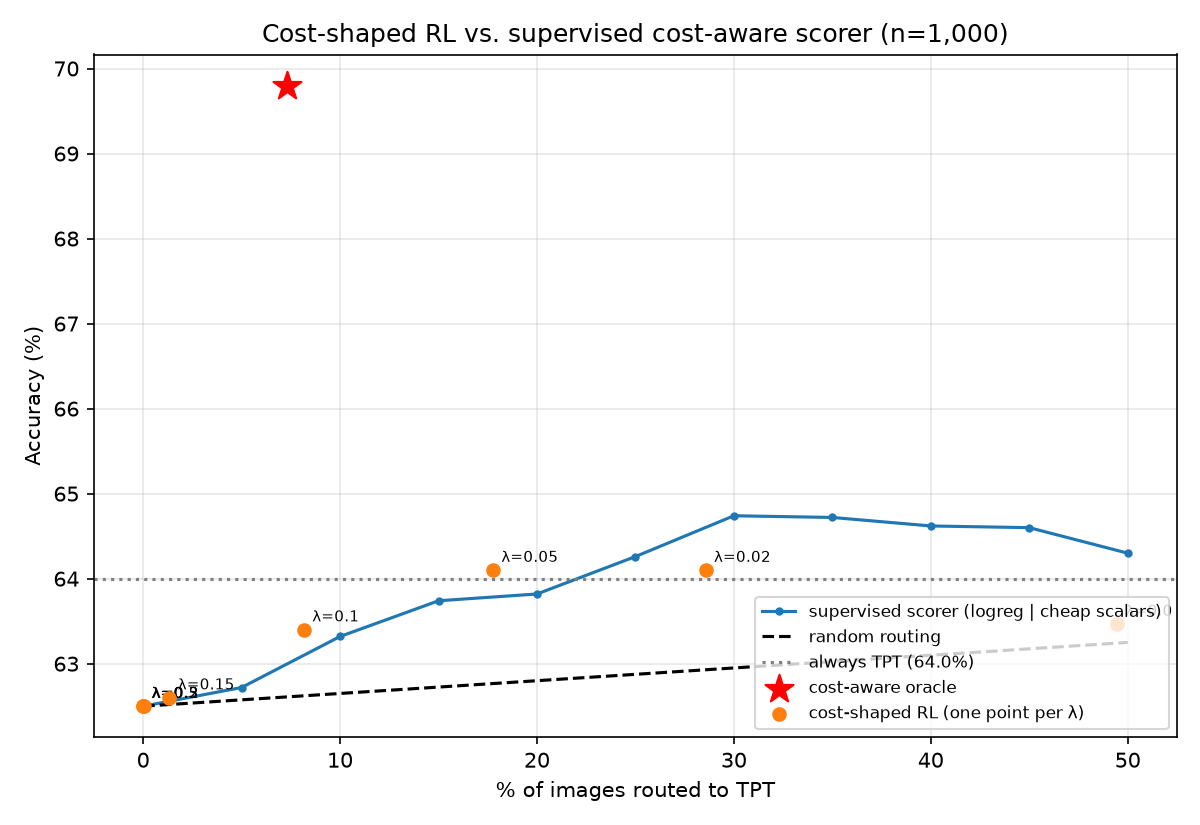
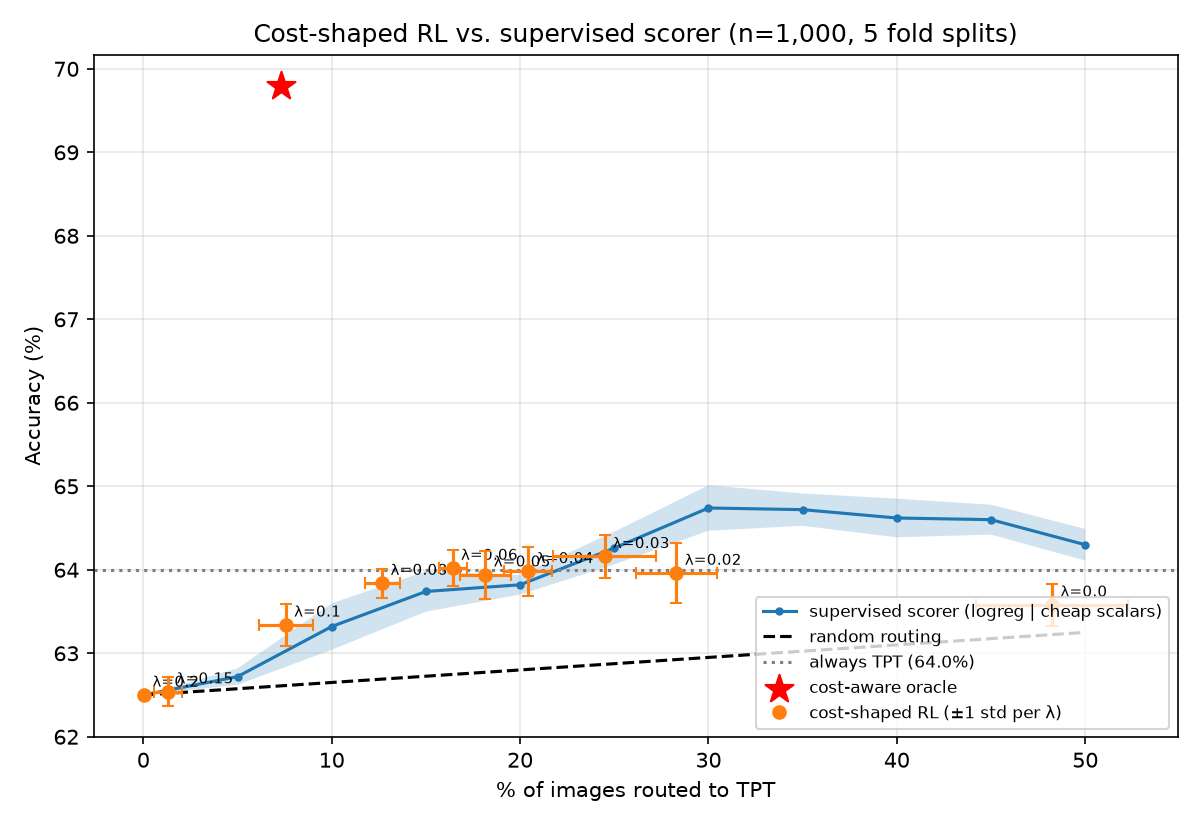
add simple-threshold baselines: single uncertainty thresholds match the learned gate; cache-disagreement rule matches TPT at 15% TPT; update README

diff --git a/src/train_rl_gate.py b/src/train_rl_gate.py
@@ -407,7 +407,7 @@ def report_permutation_result(score, perm_scores, p_value, y):
 # points, compared directly against the supervised cost-aware scorer.
 
 RL_COST_PLOT = Path("results/rl_cost_curve.png")
-LAMBDAS = [0.0, 0.02, 0.05, 0.1, 0.15, 0.2, 0.3, 0.5]
+LAMBDAS = [0.0, 0.02, 0.03, 0.04, 0.05, 0.06, 0.08, 0.1, 0.15, 0.2]
 
 
 def train_reinforce_cost(X_train, r_tpt, r_tda, lam, epochs=300, lr=0.01, seed=0):
@@ -432,7 +432,7 @@ def train_reinforce_cost(X_train, r_tpt, r_tda, lam, epochs=300, lr=0.01, seed=0
     return model
 
 
-def cost_shaped_rl_sweep(n_repeats=3):
+def cost_shaped_rl_sweep(n_repeats=5):
     with open(WIN_LABELS) as f:
         rows = json.load(f)
 
@@ -442,16 +442,27 @@ def cost_shaped_rl_sweep(n_repeats=3):
     tpt_s = np.array([r["tpt_seconds"] for r in rows])
     tda_s = np.array([r["tda_seconds"] for r in rows])
     X = np.array([[r[f] for f in CHEAP_SCALARS] for r in rows])
-
     tpt_acc, tda_acc = tpt_c.mean(), tda_c.mean()
-    print("\n=== Cost-shaped RL gate (cheap scalars, 5-fold, "
-          f"averaged over {n_repeats} fold splits) ===")
+
+    # Scorer scores per repeat. StratifiedKFold with the same random_state on the
+    # same labels gives identical folds, so RL and scorer see the same splits.
+    scorer_scores = [oof_needs_tpt_scores(X, None, y, "logreg", seed=rep)
+                     for rep in range(n_repeats)]
+
+    def acc_top_k(scores, k):
+        route = np.zeros(len(scores), dtype=bool)
+        route[np.argsort(-scores)[:k]] = True
+        return np.where(route, tpt_c, tda_c).mean()
+
+    print("\n=== Cost-shaped RL vs. supervised scorer at the SAME budget "
+          f"(5-fold, {n_repeats} fold splits, paired) ===")
     print(f"Always TDA: acc {tda_acc:.3f} | Always TPT: acc {tpt_acc:.3f}\n")
-    print(f"{'lambda':>7} | {'% to TPT':>8} | {'accuracy':>8} | {'cost (ms)':>9} | {'AUC':>5}")
+    print(f"{'lambda':>6} | {'% to TPT':>13} | {'RL acc':>13} | {'scorer acc':>13} | "
+          f"{'RL - scorer':>14} | {'RL wins':>7} | {'cost ms':>7} | {'AUC':>5}")
 
     rl_points = []
     for lam in LAMBDAS:
-        fracs, accs, costs, aucs = [], [], [], []
+        fracs, rl_accs, sc_accs, costs, aucs = [], [], [], [], []
         for rep in range(n_repeats):
             skf = StratifiedKFold(n_splits=5, shuffle=True, random_state=rep)
             route = np.zeros(len(y), dtype=bool)
@@ -465,39 +476,49 @@ def cost_shaped_rl_sweep(n_repeats=3):
                         model(torch.tensor(sc.transform(X[te]), dtype=torch.float32)), dim=-1
                     ).numpy()
                 p_tpt[te] = probs[:, 0]
-                route[te] = probs[:, 0] > 0.5      # greedy: pick the likelier action
+                route[te] = probs[:, 0] > 0.5
+
+            k = int(route.sum())
             fracs.append(route.mean())
-            accs.append(np.where(route, tpt_c, tda_c).mean())
+            rl_accs.append(np.where(route, tpt_c, tda_c).mean())
+            sc_accs.append(acc_top_k(scorer_scores[rep], k))   # same budget, same split
             costs.append((tda_s + route * tpt_s).mean() * 1000)
             aucs.append(roc_auc_score(y, p_tpt))
-        point = (lam, np.mean(fracs), np.mean(accs), np.mean(costs), np.mean(aucs))
-        rl_points.append(point)
-        print(f"{lam:7.2f} | {point[1]:8.1%} | {point[2]:8.3f} | {point[3]:9.1f} | {point[4]:.3f}")
 
-    # Supervised cost-aware scorer curve for comparison (same features + accounting)
-    scorer_accs = np.mean([
-        route_curve(oof_needs_tpt_scores(X, None, y, "logreg", seed=r),
-                    tpt_c, tda_c, tpt_s, tda_s)[0]
-        for r in range(5)
-    ], axis=0)
+        fracs, rl_accs, sc_accs = map(np.array, (fracs, rl_accs, sc_accs))
+        diffs = rl_accs - sc_accs
+        wins = int(np.sum(diffs > 0))
+        rl_points.append((lam, fracs.mean(), fracs.std(), rl_accs.mean(), rl_accs.std()))
+        print(f"{lam:6.2f} | {fracs.mean():6.1%} ±{fracs.std():5.1%} | "
+              f"{rl_accs.mean():.3f} ±{rl_accs.std():.3f} | "
+              f"{sc_accs.mean():.3f} ±{sc_accs.std():.3f} | "
+              f"{diffs.mean():+.3f} ±{diffs.std():.3f} | {wins:>3}/{n_repeats} | "
+              f"{np.mean(costs):7.1f} | {np.mean(aucs):.3f}")
+
+    # Scorer curve with spread across fold splits
+    curves = np.array([route_curve(s, tpt_c, tda_c, tpt_s, tda_s)[0] for s in scorer_scores])
+    sc_mean, sc_std = curves.mean(0), curves.std(0)
 
     fig, ax = plt.subplots(figsize=(8, 5.5))
-    ax.plot(BUDGETS * 100, scorer_accs * 100, marker="o", ms=3,
+    x = BUDGETS * 100
+    ax.plot(x, sc_mean * 100, marker="o", ms=3,
             label="supervised scorer (logreg | cheap scalars)")
-    ax.plot(BUDGETS * 100, ((1 - BUDGETS) * tda_acc + BUDGETS * tpt_acc) * 100,
-            "k--", label="random routing")
+    ax.fill_between(x, (sc_mean - sc_std) * 100, (sc_mean + sc_std) * 100, alpha=0.2)
+    ax.plot(x, ((1 - BUDGETS) * tda_acc + BUDGETS * tpt_acc) * 100, "k--",
+            label="random routing")
     ax.axhline(tpt_acc * 100, color="gray", ls=":", label=f"always TPT ({tpt_acc:.1%})")
     ax.scatter([y.mean() * 100], [np.maximum(tpt_c, tda_c).mean() * 100], marker="*",
                s=200, color="red", zorder=5, label="cost-aware oracle")
-    for lam, frac, acc, _, _ in rl_points:
-        if frac <= 0.5:
-            ax.scatter(frac * 100, acc * 100, color="tab:orange", zorder=4)
-            ax.annotate(f"λ={lam}", (frac * 100, acc * 100), fontsize=7,
+    for lam, f_m, f_s, a_m, a_s in rl_points:
+        if f_m <= 0.5:
+            ax.errorbar(f_m * 100, a_m * 100, xerr=f_s * 100, yerr=a_s * 100,
+                        fmt="o", color="tab:orange", capsize=3, zorder=4)
+            ax.annotate(f"λ={lam}", (f_m * 100, a_m * 100), fontsize=7,
                         xytext=(4, 4), textcoords="offset points")
-    ax.scatter([], [], color="tab:orange", label="cost-shaped RL (one point per λ)")
+    ax.errorbar([], [], fmt="o", color="tab:orange", label="cost-shaped RL (±1 std per λ)")
     ax.set_xlabel("% of images routed to TPT")
     ax.set_ylabel("Accuracy (%)")
-    ax.set_title("Cost-shaped RL vs. supervised cost-aware scorer (n=1,000)")
+    ax.set_title("Cost-shaped RL vs. supervised scorer (n=1,000, 5 fold splits)")
     ax.legend(fontsize=8, loc="lower right")
     ax.grid(alpha=0.3)
     fig.tight_layout()

diff --git a/src/cost_aware_routing.py b/src/cost_aware_routing.py
@@ -216,7 +216,81 @@ def feature_analysis(n_repeats=5, n_permutations=200):
     print(f"  p-value: {p:.4f}  (smallest possible with {n_permutations} shuffles: "
           f"{1/(n_permutations+1):.4f})")
 
+# --- Simple-threshold baselines: route by ONE feature, no training ---
+# Each rule's direction is fixed a priori (more uncertain -> send to TPT),
+# not chosen from results, so these are fair baselines for the learned gate.
+
+THRESHOLD_PLOT = Path("results/threshold_baseline.png")
+
+
+def threshold_baselines(n_repeats=5):
+    with open(WIN_LABELS) as f:
+        rows = json.load(f)
+
+    y = np.array([r["needs_tpt"] for r in rows], dtype=int)
+    tpt_c = np.array([r["tpt_correct"] for r in rows], dtype=float)
+    tda_c = np.array([r["tda_correct"] for r in rows], dtype=float)
+    tpt_s = np.array([r["tpt_seconds"] for r in rows])
+    tda_s = np.array([r["tda_seconds"] for r in rows])
+    X = np.array([[r[f] for f in CHEAP_SCALARS] for r in rows])
+    tpt_acc, tda_acc = tpt_c.mean(), tda_c.mean()
+
+    entropy_ = np.array([r["vanilla_entropy"] for r in rows])
+    disagree = 1 - np.array([r["tda_cache_agrees_with_clip"] for r in rows])
+    # Hand-made two-signal rule: cache disagreement first, ties broken by entropy
+    ent_norm = (entropy_ - entropy_.min()) / (entropy_.max() - entropy_.min())
+
+    rules = {
+        "threshold: high entropy": entropy_,
+        "threshold: low confidence": -np.array([r["vanilla_confidence"] for r in rows]),
+        "threshold: low margin": -np.array([r["vanilla_margin"] for r in rows]),
+        "rule: cache disagrees, then entropy": disagree + 0.5 * ent_norm,
+    }
+
+    # Learned gate (logreg | cheap scalars), averaged over fold splits
+    learned = [oof_needs_tpt_scores(X, None, y, "logreg", seed=r) for r in range(n_repeats)]
+    learned_curve = np.mean([route_curve(s, tpt_c, tda_c, tpt_s, tda_s)[0] for s in learned], 0)
+
+    print("\n=== Simple-threshold baselines vs. learned gate (no training for thresholds) ===")
+    print(f"Always TDA {tda_acc:.3f} | Always TPT {tpt_acc:.3f} | needs_tpt base rate {y.mean():.3f}\n")
+
+    def summarize(name, accs, auc, ap):
+        match = next((b for b, a in zip(BUDGETS, accs) if a >= tpt_acc), None)
+        match_str = f"{match:.0%}" if match is not None else ">50%"
+        print(f"{name:38s} AUC {auc:.3f} | AP {ap:.3f} | "
+              f"@10% {acc_at(accs, 0.10):.3f} @20% {acc_at(accs, 0.20):.3f} "
+              f"@25% {acc_at(accs, 0.25):.3f} @30% {acc_at(accs, 0.30):.3f} | "
+              f"matches TPT at {match_str}")
+
+    curves = {}
+    for name, score in rules.items():
+        accs, _ = route_curve(score, tpt_c, tda_c, tpt_s, tda_s)
+        curves[name] = accs
+        summarize(name, accs, roc_auc_score(y, score), average_precision_score(y, score))
+
+    curves["learned gate (logreg | cheap scalars)"] = learned_curve
+    summarize("learned gate (logreg | cheap scalars)", learned_curve,
+              np.mean([roc_auc_score(y, s) for s in learned]),
+              np.mean([average_precision_score(y, s) for s in learned]))
+
+    fig, ax = plt.subplots(figsize=(8, 5.5))
+    x = BUDGETS * 100
+    for name, accs in curves.items():
+        style = "-" if name.startswith("learned") else "--"
+        ax.plot(x, accs * 100, style, marker="o", ms=3, label=name)
+    ax.plot(x, ((1 - BUDGETS) * tda_acc + BUDGETS * tpt_acc) * 100, "k:", label="random routing")
+    ax.axhline(tpt_acc * 100, color="gray", ls=":", label=f"always TPT ({tpt_acc:.1%})")
+    ax.set_xlabel("% of images routed to TPT")
+    ax.set_ylabel("Accuracy (%)")
+    ax.set_title("Simple-threshold baselines vs. learned gate (n=1,000)")
+    ax.legend(fontsize=7, loc="lower right")
+    ax.grid(alpha=0.3)
+    fig.tight_layout()
+    fig.savefig(THRESHOLD_PLOT, dpi=150)
+    print(f"\nSaved plot to {THRESHOLD_PLOT}")
+
 
 if __name__ == "__main__":
-    cost_aware_curve()
-    feature_analysis()
+    # cost_aware_curve()
+    # feature_analysis()
+    threshold_baselines()

diff --git a/README.md b/README.md
@@ -2,7 +2,7 @@
 
 Pilot project exploring whether a lightweight, meta-learned gate can predict, per image, which test-time adaptation (TTA) strategy (TPT vs. TDA) will work better for a CLIP-based vision-language model under domain shift, without manual per-domain tuning.
 
-## Status: cost-aware routing matches TPT's accuracy with ~25–30% of images routed to TPT (~3x cheaper), p < 0.005
+## Status: routing the most uncertain images to TPT matches TPT's accuracy with 15–25% of images sent to TPT (~3.3–5x cheaper); a simple threshold does as well as a learned gate
 
 | n | Vanilla | TPT | TDA | Oracle | Oracle gap |
 |---|---|---|---|---|---|
@@ -106,6 +106,26 @@ All six configurations beat random routing at every budget. Plot: `results/cost_
 - In short, **TPT is needed when CLIP is torn between classes and TDA's cache disagrees with CLIP.**
 
 **Caveats:** "matches at 25%" sits right at the line (64.3% vs. 64.0% is about 3 images), so "25–30%" is the safer claim. There's a large gap to the oracle: most top-ranked images don't actually need TPT. Confirmation on new images or another dataset is still pending.
+
+#### Simple-threshold baselines (`threshold_baselines` in `src/cost_aware_routing.py`)
+
+No training: each rule ranks images by one feature and sends the top X% to TPT. Directions were fixed in advance (more uncertain → TPT).
+
+| Rule | AUC | AP | Acc @20% | Acc @30% | Matches always-TPT at |
+|---|---|---|---|---|---|
+| High entropy | 0.754 | 0.163 | 63.8% | 63.8% | 25% |
+| Low confidence | 0.757 | 0.158 | 64.0% | 64.2% | 20% |
+| Low margin | 0.755 | 0.166 | 64.2% | 64.5% | 20% |
+| Cache disagrees, then entropy | 0.746 | 0.165 | 64.1% | 64.5% | **15%** |
+| Learned gate (logreg, cheap scalars) | 0.757 | 0.161 | 63.8% | 64.7% | 25% |
+
+- **At this scale, a single uncertainty threshold does as well as the learned gate.** Differences are 0.2–0.5 points (2–5 images), within noise.
+- **The two-signal rule** (send images where TDA's cache disagrees with CLIP, then the most uncertain) matches TPT with only 15% of images going to TPT, the cheapest point so far, and is fully interpretable. It was designed after the feature analysis, so it needs confirming on new data.
+- **What this means for the contribution:** the value is in the cost-aware analysis and the finding that uncertainty plus cache agreement predict when TPT is needed, not in a complex gate. Learned gates may help again with more data and richer features.
+
+Plot: `results/threshold_baseline.png`.
+
+- **Positioning:** the learned scorer is simpler than RL (one model covers every budget via a cutoff), but simple thresholds match both at this scale (see below). The main method is therefore the routing approach itself, with a simple rule as the default; learned gates are revisited at larger scale.
 
 ## Statistical checks
 
